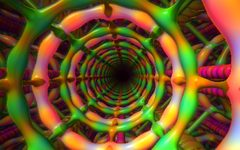
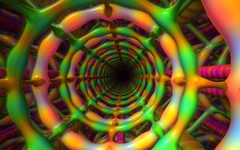
Biomech: the spine's discs no longer tear in the distance
A vertebra's radius changes about twice as fast as the place along the
spine, so the distance there was up to twice too large and rays stepped
through the discs. The spine's own distance is now taken at 0.58.

Claude-Session: https://claude.ai/code/session_01P6VPRAEHB2YHcMwxJHigoo

diff --git a/js/worlds.js b/js/worlds.js
@@ -818,7 +818,8 @@ export const WORLDS=[
    like a windpipe, joined by eight knuckled rods. Where four tunnels meet stands a spine of four vertebrae to the
    unit, joined to the larger rings by tendons, and between each two tunnels runs a pair of ribbed hoses. The morph
    swells one ring as it shrinks the other, as if the cage breathed. The joins are rounded (bmS), and the swellings
-   make the distance a little too large in places, so three quarters of it is used. */
+   make the distance a little too large in places, so three quarters of it is used; the spine's, whose discs are the
+   steepest swellings, is cut again to 0.58 of that. */
 {id:"biomech",name:"Biomech",hue:.47,fog:.19,maxd:16,speed:.6,start:[.25,.1,.2],
  period:function(){return [3.2,3.2,1]},
  glsl:[
@@ -835,7 +836,7 @@ export const WORLDS=[
  "  if(ds<d)w=0.24;",
  "  d=bmS(d,ds,0.07);",
  "  vec2 c=abs(q.xy)-1.6;float vb=0.5+0.5*cos(25.1327412*q.z);", /* the spine at the nearest corner */
- "  float dv=length(c)-(0.2+0.13*vb*vb);",
+ "  float dv=(length(c)-(0.2+0.13*vb*vb))*0.58;", /* a vertebra's side is steep: its radius changes about twice as fast as the place along the spine, so this alone is taken much shorter, or rays step through the discs and the far ones tear */
  "  float dt=max(length(vec2((abs(q.x)-abs(q.y))*0.7071068,q.z))-0.05,1.07+0.06*uM-rho);", /* a tendon from the larger ring out to the spine */
  "  if(dt<d)w=0.30;",
  "  d=bmS(d,dt,0.08);",
@@ -858,7 +859,7 @@ export const WORLDS=[
   var ds=Math.hypot(rho*Math.cos(af)-1.09,rho*Math.sin(af))-(.045+.02*Math.cos(12.5663706*qz));
   d=S(d,ds,.07);
   var cx=Math.abs(qx)-1.6,cy=Math.abs(qy)-1.6,vb=.5+.5*Math.cos(25.1327412*qz);
-  var dv=Math.hypot(cx,cy)-(.2+.13*vb*vb);
+  var dv=(Math.hypot(cx,cy)-(.2+.13*vb*vb))*.58;
   var dt=Math.max(Math.hypot((Math.abs(qx)-Math.abs(qy))*.7071068,qz)-.05,1.07+.06*m-rho);
   d=S(d,dt,.08);
   d=S(d,dv,.08);

diff --git a/docs/ARCHITECTURE.md b/docs/ARCHITECTURE.md
@@ -309,7 +309,7 @@ Two requirements matter more than anything else when adding or changing a world:
 | Kleinian | Limit set of a Kleinian group (Jos Leys, Knighty) | y mirror-folded into the slab `[0, a]`; 12 times: wrap x and z to `[-1,1]`, turn the upper half over onto the lower, invert `p = -p/r2` and move by `(0, a)`; `0.6*min(y, a-y, 0.3)/max(df, 2)` | 2, 2a, 2 | `a = 1.9 + 0.04m` |
 | Pyrite | Cubes on cubes' corners | Mirror tile `P=4`; a cube of half-size 0.5, then `p = abs(p) - 0.66`, two rotations, `p *= 2.6`; 4 levels; factor 0.9 | 8 | rotation |
 | Cell | The inside of a living cell (not a fractal) | Mirror tile `P=8`, then the point's three distances from the cell's middle sorted largest first, so each shape is written once and appears 48 times. Membrane: outside a box of half-size 3.85 with corners of radius 1.5, less a round opening of radius 1.1 along each axis, rippled. Nucleus: a shell of radius 1.5 with 26 pores (axes, edge diagonals, corner diagonals), each with a ring. Microtubules: two rods from the nucleus to the wall, 96 after the fold. Mitochondria (not folded): the cell is cut into 4x4x4 blocks of side 2, and three in four of the 24 blocks in the middle of a side hold a capsule (half-length 0.55, radius 0.28) lying one of six ways, half of them cut open along their length to show plates inside; presence, direction and cut are bits of `n(n+3) mod 61`, `n` being the block's place. Vesicles: 8x8x8 blocks of side 1, about a third of those between nucleus and wall and outside a mitochondrion's block hold a ball of one of four sizes. A block's shape keeps a margin inside its block, and the distance is capped at the distance to the block's side plus that margin, so a neighbour's shape is never overstepped; factor 0.8. Golgi: the side blocks with no mitochondrion hold five dishes, parts of balls round the cell's middle 0.125 apart, cut to a round stack of radius 0.55. Endoplasmic reticulum: one gyroid `g` at 2.6x shapes both kinds; rough is three wavy shells at about 1.83, 2.1 and 2.37 from the middle, with windows where `g > 0.45`, a clear way of radius 0.42 in to every pore and a grain of bumps (ribosomes); smooth is the tubes where `g > 1.18`, kept to where two of the three distances from the middle are over 2.2 (the cell's edges and corners). Centrosome: two barrels of nine rods at right angles at (1.67, 1.67, 1.67), one to a cell (not folded), worked out only within 0.65 of it. Inside the nucleus (worked out only there): a lumpy nucleolus of radius 0.4 off the middle, and chromatin where a gyroid at 7x is beyond 1.05 either way, with the straight ways between pores left clear. The cell's own coordinates are the world's negated near the origin (the mirror tile), which matters only when aiming a camera by hand | 16 | pore size, vesicle size |
-| Biomech | Rib cages, spines and hoses (not a fractal), in homage to H. R. Giger's biomechanical paintings | Tunnels along z, one to each 3.2 by 3.2. Two tori to the unit of z with thickness `0.085 + 0.016*cos(12a)` (segments); eight rods at radius 1.09, found by folding the angle into an eighth of a turn; a spine at each cell corner of radius `0.2 + 0.13*vb^2`, `vb = 0.5 + 0.5*cos(8*pi*z)` (four vertebrae); a tendon along each diagonal from the larger ring to the spine; a pair of hoses at each mid-edge with 10 ribs to the unit. Joined by the rounded minimum `bmS` (k 0.07 and 0.08). `0.75*d`, since the swellings are not true distances | 3.2, 3.2, 1 | larger ring `1.12 + 0.06m`, smaller `1.02 - 0.05m` |
+| Biomech | Rib cages, spines and hoses (not a fractal), in homage to H. R. Giger's biomechanical paintings | Tunnels along z, one to each 3.2 by 3.2. Two tori to the unit of z with thickness `0.085 + 0.016*cos(12a)` (segments); eight rods at radius 1.09, found by folding the angle into an eighth of a turn; a spine at each cell corner of radius `0.2 + 0.13*vb^2`, `vb = 0.5 + 0.5*cos(8*pi*z)` (four vertebrae); a tendon along each diagonal from the larger ring to the spine; a pair of hoses at each mid-edge with 10 ribs to the unit. Joined by the rounded minimum `bmS` (k 0.07 and 0.08). `0.75*d`, since the swellings are not true distances, and the spine's own distance times 0.58 before that: its discs are steep enough (radius changing about twice as fast as the place along it) that rays stepped through them and the far ones tore | 3.2, 3.2, 1 | larger ring `1.12 + 0.06m`, smaller `1.02 - 0.05m` |
 | Nebula | Volumetric Kaliset | `p = abs(p)/dot(p,p) - f`, 10 iterations, accumulating `|len - prevLen|`; cubed | 2 | `f = 0.55 + 0.03m` |
 | Aurora | Volumetric warped gyroid | Three octaves of `p += A*sin(p.yzx*F + t)`, then `exp(-k*|gyroid|)` ribbons | 2π | ribbon width |
 | Lanterns | Volumetric lights | One soft light to a unit cell and one to a half cell, each off its cell's middle by a hash of the cell (mod 8) and swaying with the clock, faded toward the cell's sides so that none is cut; plus a faint gyroid haze | 8 | size of the larger lights |
